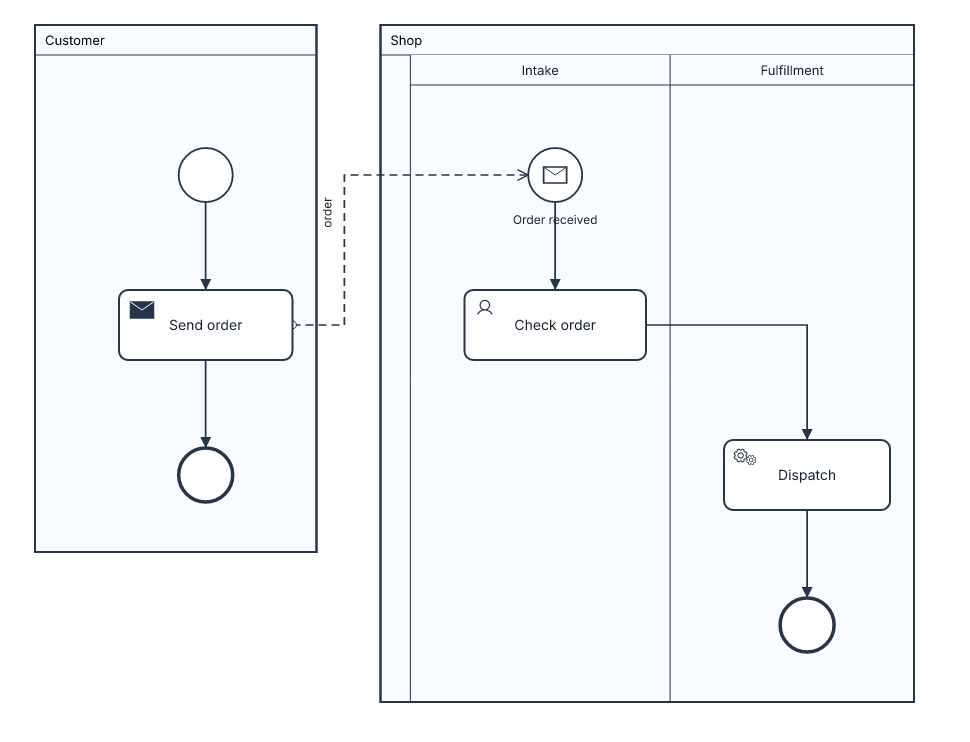
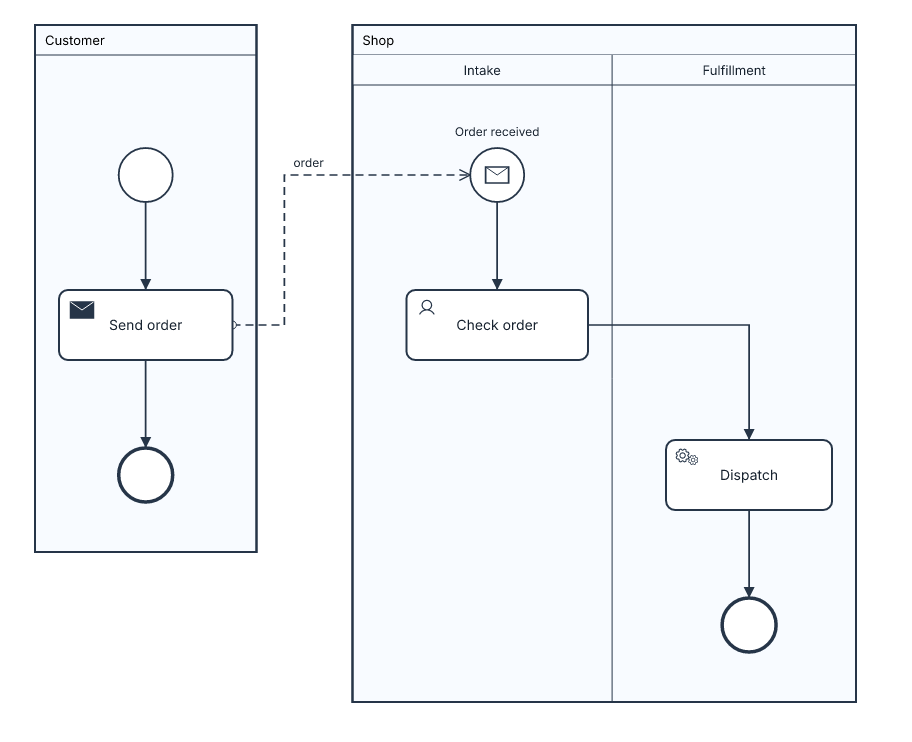
Clear vertical BPMN event captions and compact unlaned pools

diff --git a/src/bpmn/render/routing_tests/vertical.rs b/src/bpmn/render/routing_tests/vertical.rs
@@ -1,5 +1,16 @@
 //! Regression checks for top-to-bottom BPMN pool and lane geometry.
 use super::{EdgeKind, Kind, bpmn, plan, ports};
+use crate::svg::TextMode;
+fn attr(line: &str, key: &str) -> f64 {
+    line.split(&format!("{key}=\""))
+        .nth(1)
+        .unwrap()
+        .split('"')
+        .next()
+        .unwrap()
+        .parse()
+        .unwrap()
+}
 #[test]
 fn vertical_pool_lanes_fit_and_center_their_nodes() {
     for source in [
@@ -44,6 +55,26 @@ fn vertical_pool_lanes_fit_and_center_their_nodes() {
             );
         }
         let customer = geom.pools.iter().find(|p| p.label == "Customer").unwrap();
+        let customer_nodes: Vec<_> = doc
+            .nodes
+            .iter()
+            .enumerate()
+            .filter(|(_, n)| n.pool.as_deref() == Some("Customer") && n.parent.is_none())
+            .map(|(i, _)| geom.nodes[i])
+            .collect();
+        let min = customer_nodes
+            .iter()
+            .map(|n| n.x - n.w / 2.0)
+            .fold(f64::INFINITY, f64::min);
+        let max = customer_nodes
+            .iter()
+            .map(|n| n.x + n.w / 2.0)
+            .fold(f64::NEG_INFINITY, f64::max);
+        assert!(
+            (min - customer.x - 24.0).abs() < 0.1
+                && (customer.x + customer.w - max - 24.0).abs() < 0.1,
+            "an unlaned vertical pool needs no phantom lane header at its left"
+        );
         let ports = ports::assign(&doc, &geom).unwrap();
         let (_, routes) = plan::all(&doc, &geom, &ports).unwrap();
         let i = doc
@@ -60,6 +91,31 @@ fn vertical_pool_lanes_fit_and_center_their_nodes() {
                     && leg[0].0 > customer.x + customer.w + 15.0
                     && leg[0].0 < shop.x - 15.0),
             "message should use the inter-pool aisle, not the pool or lane border"
+        );
+        let svg = bpmn::render(&doc, TextMode::System).unwrap();
+        let caption = svg
+            .lines()
+            .find(|l| l.ends_with(">Order received</text>"))
+            .unwrap();
+        let received = geom.nodes[doc
+            .nodes
+            .iter()
+            .position(|n| n.id == "Shop.Received")
+            .unwrap()];
+        assert!(
+            attr(caption, "y") < received.y - received.h / 2.0 - 5.0,
+            "message start caption must sit above, not across the outgoing sequence flow"
+        );
+        let label = svg.lines().find(|l| l.ends_with(">order</text>")).unwrap();
+        assert!(
+            !label.contains("rotate("),
+            "the message label fits horizontally in the aisle"
+        );
+        let half = crate::text::measure("order", 12.0).unwrap() / 2.0;
+        assert!(
+            attr(label, "x") - half > customer.x + customer.w + 18.0
+                && attr(label, "x") + half < shop.x - 18.0,
+            "message caption must have room on both sides of the inter-pool aisle"
         );
     }
 }

diff --git a/src/bpmn/render.rs b/src/bpmn/render.rs
@@ -56,7 +56,7 @@ fn event_marker(svg: &mut String, marker: &str, x: f64, y: f64, throwing: bool) 
         _ => {}
     }
 }
-fn shape(svg: &mut String, n: &Node, b: BoxAt, icon: Option<&str>) {
+fn shape(svg: &mut String, n: &Node, b: BoxAt, icon: Option<&str>, caption_above: bool) {
     let (x, y, w, h) = (b.x, b.y, b.w, b.h);
     match n.kind {
         Kind::Task
@@ -127,7 +127,12 @@ fn shape(svg: &mut String, n: &Node, b: BoxAt, icon: Option<&str>) {
                 event_marker(svg, marker, x, y, n.kind == Kind::End);
             }
             if n.kind != Kind::Boundary {
-                text(svg, x, y + radius + 22.0, &n.label, 12.0);
+                let caption_y = if caption_above {
+                    y - radius - 12.0
+                } else {
+                    y + radius + 22.0
+                };
+                text(svg, x, caption_y, &n.label, 12.0);
             }
         }
         Kind::Exclusive | Kind::Parallel | Kind::Inclusive | Kind::EventBased => {
@@ -299,7 +304,7 @@ pub fn render_with_styles(
         .filter(|(n, _)| n.kind == Kind::Subprocess)
     {
         writeln!(svg, "<g data-bpmn-id=\"{}\">", escape(&n.id)).unwrap();
-        shape(&mut svg, n, b, super::style::icon(sheet, n));
+        shape(&mut svg, n, b, super::style::icon(sheet, n), false);
         svg.push_str("</g>\n");
     }
     let ports = ports::assign(doc, &geom)?;
@@ -312,7 +317,13 @@ pub fn render_with_styles(
         .filter(|(n, _)| n.kind != Kind::Subprocess)
     {
         writeln!(svg, "<g data-bpmn-id=\"{}\">", escape(&n.id)).unwrap();
-        shape(&mut svg, n, b, super::style::icon(sheet, n));
+        let caption_above = doc.direction == crate::syntax::FlowDirection::TopToBottom
+            && n.kind == Kind::Start
+            && doc
+                .edges
+                .iter()
+                .any(|edge| edge.kind == super::EdgeKind::Sequence && edge.from == n.id);
+        shape(&mut svg, n, b, super::style::icon(sheet, n), caption_above);
         svg.push_str("</g>\n");
     }
     labels::render(&mut svg, doc, &geom, &routes)?;

diff --git a/src/bpmn/geometry.rs b/src/bpmn/geometry.rs
@@ -145,7 +145,14 @@ pub(super) fn place(doc: &Document) -> Result<Geometry, String> {
             .as_ref()
             .and_then(|id| doc.pools.iter().find(|p| &p.id == id));
         let mut bands = Vec::new();
-        let mut band_top = top + if pool.is_some() { 30.0 } else { 0.0 };
+        // In top-to-bottom diagrams the pool title stays above the pool;
+        // it must not reserve a second, empty strip at the pool's left.
+        let mut band_top = top
+            + if pool.is_some() && doc.direction != crate::syntax::FlowDirection::TopToBottom {
+                30.0
+            } else {
+                0.0
+            };
         let lane_ids: Vec<Option<String>> = if let Some(p) = pool {
             let mut ids: Vec<_> = p.lanes.iter().map(|l| Some(l.id.clone())).collect();
             if p.lanes.is_empty()
@@ -189,6 +196,13 @@ pub(super) fn place(doc: &Document) -> Result<Geometry, String> {
                 &mut boxes,
                 if pool.is_some() { 175.0 } else { 95.0 },
                 band_top,
+                if doc.direction == crate::syntax::FlowDirection::TopToBottom
+                    && pool.is_none_or(|p| p.lanes.is_empty())
+                {
+                    0.0
+                } else {
+                    30.0
+                },
             );
             width = width.max(w + if pool.is_some() { 105.0 } else { 45.0 });
             let label = pool
@@ -230,7 +244,7 @@ pub(super) fn place(doc: &Document) -> Result<Geometry, String> {
         }
         top += pool_height
             + if doc.direction == crate::syntax::FlowDirection::TopToBottom {
-                64.0
+                96.0
             } else {
                 32.0
             };
@@ -261,6 +275,7 @@ pub(super) fn place(doc: &Document) -> Result<Geometry, String> {
             &mut boxes,
             base.x - base.w / 2.0 + 70.0,
             base.y - base.h / 2.0 + 30.0,
+            30.0,
         );
     }
     for (i, n) in doc

diff --git a/src/bpmn/render/labels.rs b/src/bpmn/render/labels.rs
@@ -4,7 +4,7 @@
 use super::super::geometry::BoxAt;
 use super::orthogonal::{Point, Prior};
 use super::{Document, Geometry, escape};
-use crate::bpmn::{Kind, LabelOrientation};
+use crate::bpmn::{EdgeKind, Kind, LabelOrientation};
 use std::fmt::Write;
 
 #[derive(Clone, Copy)]
@@ -101,6 +101,19 @@ fn near_other_line(routes: &[Prior], edge: usize, rect: BoxAt) -> bool {
                 }
             })
     })
+}
+fn message_border_cost(doc: &Document, geom: &Geometry, index: usize, rect: BoxAt) -> f64 {
+    if doc.edges[index].kind != EdgeKind::Message
+        || doc.direction != crate::syntax::FlowDirection::TopToBottom
+    {
+        return 0.0;
+    }
+    geom.pools
+        .iter()
+        .filter(|p| rect.y > p.y && rect.y < p.y + p.h)
+        .flat_map(|p| [p.x, p.x + p.w])
+        .map(|border| (26.0 - ((rect.x - border).abs() - rect.w / 2.0)).max(0.0) * 16.0)
+        .sum()
 }
 fn close_to_related_note(doc: &Document, geom: &Geometry, index: usize, box_at: BoxAt) -> bool {
     let Some(source) = doc.nodes.iter().find(|n| n.id == doc.edges[index].from) else {
@@ -258,6 +271,7 @@ fn choose(
                         (progress - route_length / 2.0).abs()
                     };
                     let cost = distance
+                        + message_border_cost(doc, geom, index, box_at)
                         + if close_to_related_note(doc, geom, index, box_at) {
                             400.0
                         } else {

diff --git a/src/bpmn/geometry/group.rs b/src/bpmn/geometry/group.rs
@@ -8,6 +8,7 @@ pub(super) fn place_group(
     boxes: &mut [BoxAt],
     left: f64,
     top: f64,
+    header: f64,
 ) -> (f64, f64) {
     let vertical = doc.direction == crate::syntax::FlowDirection::TopToBottom;
     let max_rank = indices.iter().map(|&i| ranks[i]).max().unwrap_or(0);
@@ -36,8 +37,8 @@ pub(super) fn place_group(
             if vertical { w } else { h }
         })
         .fold(70.0_f64, f64::max);
-    let first_center = top + 30.0 + if vertical { 24.0 } else { 0.0 } + first_height / 2.0;
-    let mut row_bottom = vec![top + 30.0; max_rank + 1];
+    let first_center = top + header + if vertical { 24.0 } else { 0.0 } + first_height / 2.0;
+    let mut row_bottom = vec![top + header; max_rank + 1];
     let mut occupied = vec![false; max_rank + 1];
     let mut height = 100.0_f64;
     for &i in indices {
@@ -82,11 +83,11 @@ pub(super) fn place_group(
             .iter()
             .map(|&i| boxes[i].y + boxes[i].w / 2.0)
             .fold(f64::NEG_INFINITY, f64::max);
-        let shift = top + 30.0 + 24.0 - min;
+        let shift = top + header + 24.0 - min;
         for &i in indices {
             boxes[i].y += shift;
         }
-        height = (max - min) + 30.0 + 48.0;
+        height = (max - min) + header + 48.0;
     } else {
         height = indices
             .iter()

diff --git a/docs/bpmn-diagrams.md b/docs/bpmn-diagrams.md
@@ -68,7 +68,7 @@ Review -(message@Cancellation:"Cancel")-> Cancel
 
 ## Layout and icons
 
-Automatic layout is left-to-right. Pools appear one below another, lanes are ordered to put a lane containing a start event first. `direction: top-to-bottom` under `settings` rotates the automatic flow while keeping all node labels upright: pools become side-by-side and lanes become columns. Column width is measured from the actual widths of its nodes; nodes are centered inside the usable lane area, beyond its header. Message flows between side-by-side pools use the aisle rather than tracing a pool border. The [complete vertical source](../examples/bpmn-vertical.laml) produces this image:
+Automatic layout is left-to-right. Pools appear one below another, lanes are ordered to put a lane containing a start event first. `direction: top-to-bottom` under `settings` rotates the automatic flow while keeping all node labels upright: pools become side-by-side and lanes become columns. Column width is measured from the actual widths of its nodes; nodes are centered inside the usable lane area, beyond its header. A pool without lanes does not reserve a phantom lane header. Message flows between side-by-side pools use the aisle rather than tracing a pool border; their labels keep clearance from both borders. In this direction, a start-event caption sits above the event when its outgoing sequence flow runs below. The [complete vertical source](../examples/bpmn-vertical.laml) produces this image:
 
 ![Top-to-bottom BPMN collaboration with vertical lanes](images/bpmn-vertical.png)
 
